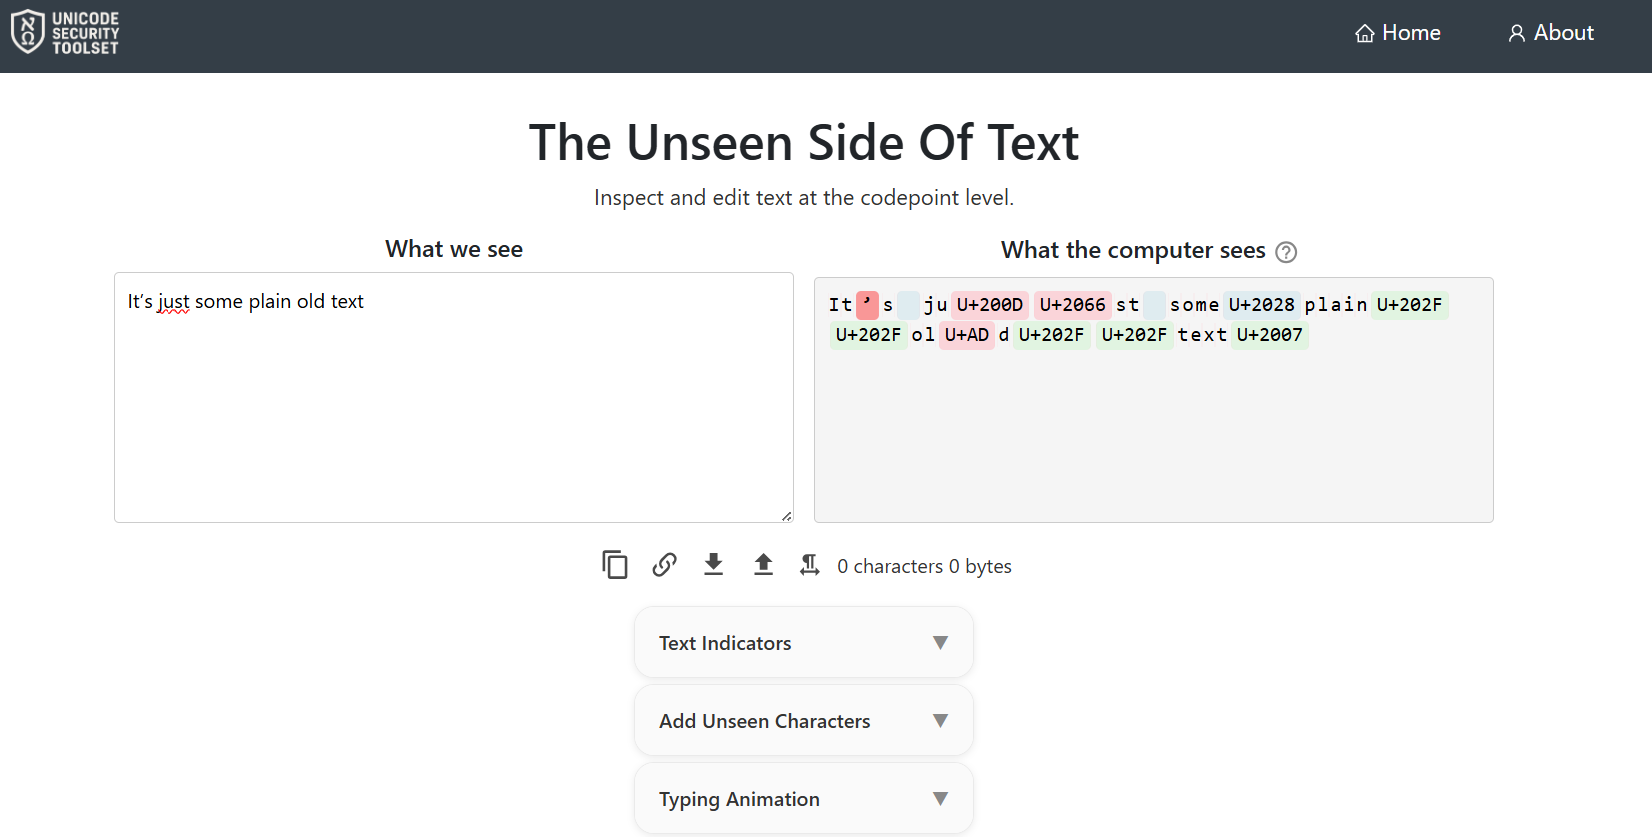
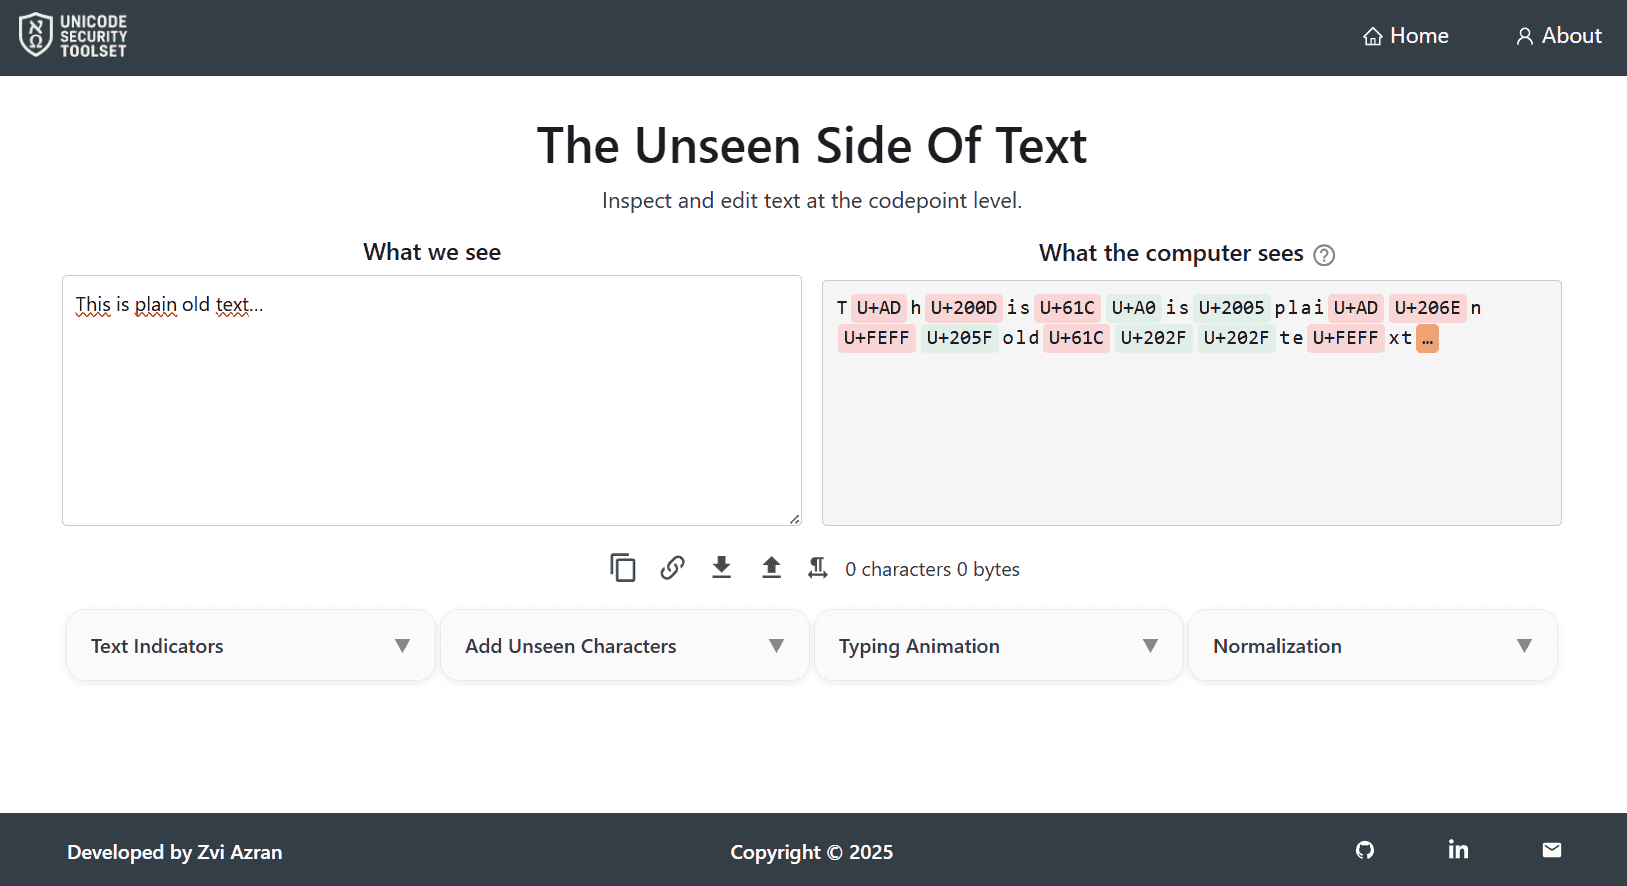
change describeTextIndicators to use the inconsistent value

diff --git a/src/components/Toolset/CodepointEditor/CodepointEditor.tsx b/src/components/Toolset/CodepointEditor/CodepointEditor.tsx
@@ -189,7 +189,7 @@ const CodepointEditor: React.FC = () => {
 
   function describeTextIndicators(text: string): string {
     const osList  = IndicatorsCleaner.findOSIndicators(text);
-    if (osList.length === 0) return "No Text indicators.";
+    if (osList.length === 0) return "Looks normal.";
     if (osList.length === 1) return `OS indicator: ${osList[0]}`;
     return `Text indicators: ${osList.slice(0, -1).join(", ")} & ${osList.slice(-1)}`;
   }
@@ -243,7 +243,7 @@ const CodepointEditor: React.FC = () => {
               disabled={!hasTextIndicators}
               onClick={() => setText(IndicatorsCleaner.deepClean(normalText))}
               className={`${styles.charButton} ${innerStyles.aiIndicator}`}
-              title={!hasTextIndicators ? "No AI indicators found" : undefined}
+              title={!hasTextIndicators ? "No indicators found" : undefined}
             >
               Deep Clean
             </button>

diff --git a/src/components/Toolset/CodepointEditor/CodepointEditor.module.css b/src/components/Toolset/CodepointEditor/CodepointEditor.module.css
@@ -1,7 +1,7 @@
 .codepointEditor {
   text-align: center;
   margin-top: 6rem;
-  min-height: 33rem;
+  min-height: 35rem;
   place-items: center;
 }
 
@@ -16,7 +16,7 @@
   display: grid;
   grid-template-rows: auto 1fr;
   flex: 1;
-  max-width: 35rem;
+  max-width: 38rem;
   min-width: 15rem;
   min-height: 15rem;
   padding: 0.5rem 0.5rem 0 0.5rem;
@@ -138,6 +138,8 @@
 }
 
 .panelGrid {
-  display: grid;
-
+  display: flex;
+  flex-wrap: wrap;
+  gap: 0.2rem;
+  justify-content: center;
 }

diff --git a/src/components/Toolset/CodepointEditor/CollapsiblePanel.module.css b/src/components/Toolset/CodepointEditor/CollapsiblePanel.module.css
@@ -1,12 +1,13 @@
 .panel {
-  margin: 0rem 0.5rem 0.3rem 0.5rem;
+  margin-bottom: 0.3rem;
   max-width: 20rem;
   border-radius: 1rem;
   background: #ffffff;
   box-shadow: 0 2px 6px rgba(0, 0, 0, 0.08);
   overflow: hidden;
   border: 1px solid #eaeaea;
-  min-width: 17rem;
+  min-width: 18.5rem;
+  align-self: start;
 }
 
 .header {
